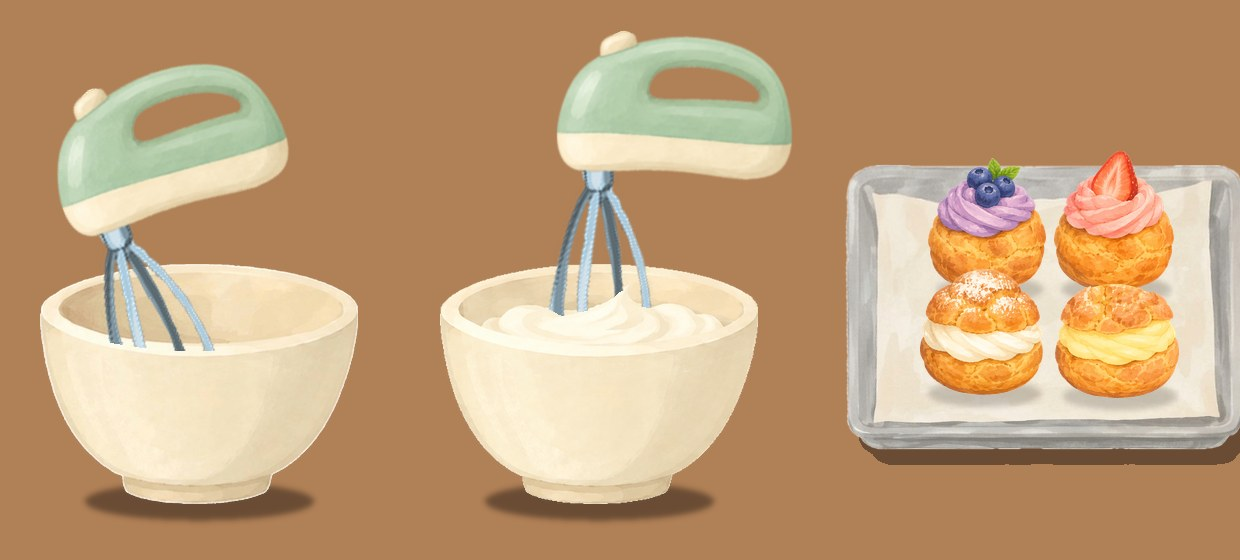
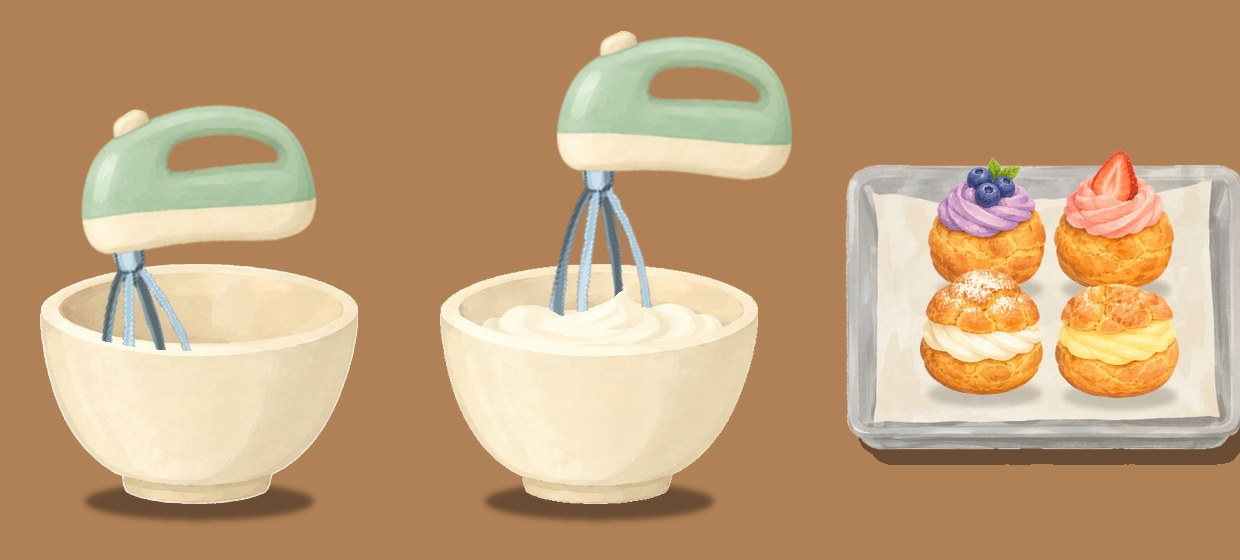
Mixer at rest sits inside its bowl's edges (owner: it overlapped the edge): less lean, over the bowl's middle

Changed region(s): [[0.0306, 0.0911, 0.2758, 0.6375]]

diff --git a/Docs/tools/report_page/index.html b/Docs/tools/report_page/index.html
@@ -146,7 +146,7 @@ h3 small{font-weight:600;color:var(--soft);font-size:13px;margin-left:6px}
 <figure><img src="kitchen_anim.gif" alt="The kitchen counter moving: the mixer running in its bowl with the whisk turning in the cream, then the knife chopping on the fruit board"><figcaption>Kitchen, in the game (9 seconds): mixing, then cutting.</figcaption></figure>
 <ul>
 <li><b>Whisk in the cream:</b> the whisk now goes half way into the cream; its lower part is hidden by the cream and the bowl's front wall, and it turns in there.</li>
-<li><b>At rest:</b> the bowl is empty (Gemini painted it from our bowl) and the mixer leans in it, the whisk inside. The cream appears when it runs.</li>
+<li><b>At rest:</b> the bowl is empty (Gemini painted it from our bowl) and the mixer sits in it, the whisk inside, the whole mixer within the bowl's edges (it overhung the left edge before; now it leans only a little and stands over the middle). The cream appears when it runs.</li>
 <li><b>Bowl shadow:</b> like the basket's on the kitchen table: the same flat brown oval under the foot, measured on the basket.</li>
 <li><b>Finished tray:</b> the four choux are the served pictures (the same as on the table's platter), on your tray, at the places of the old ones.</li>
 <li><b>Your pictures</b> (tray, cake plate, mixer body) are used as painted; the later tray and cake stages are built on them.</li>
